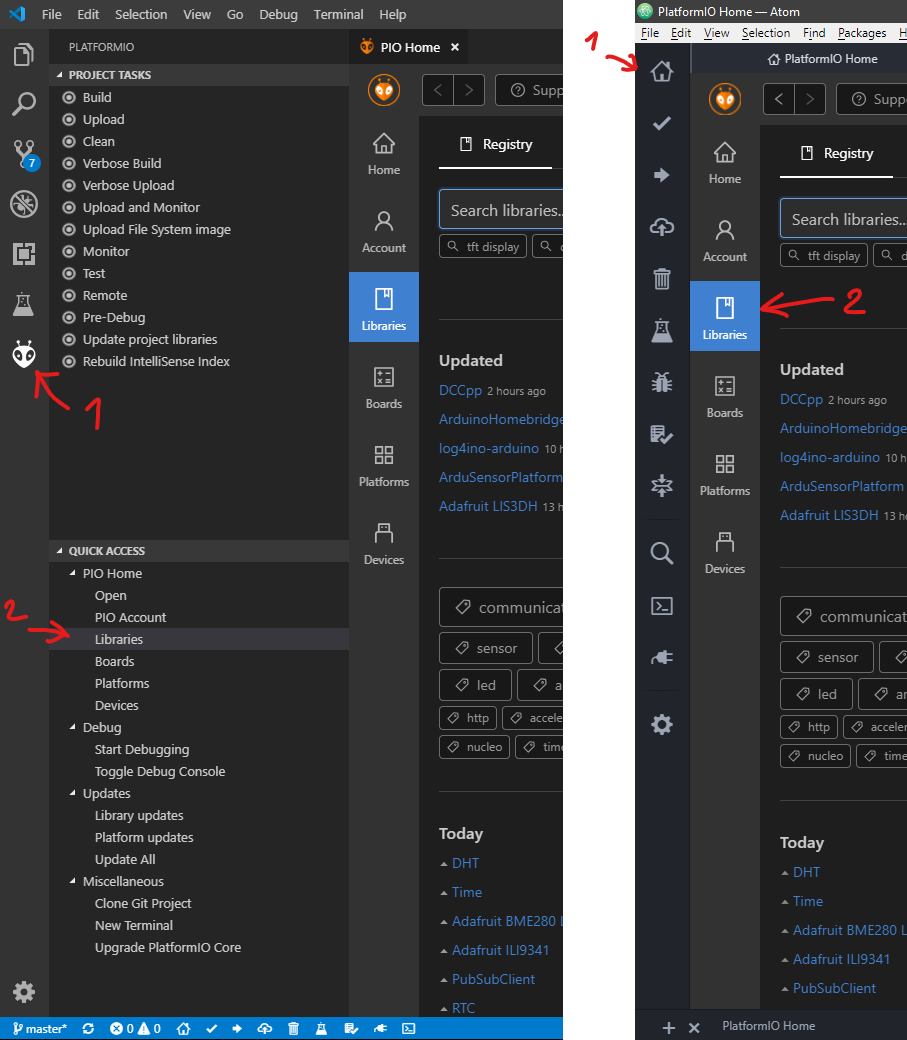
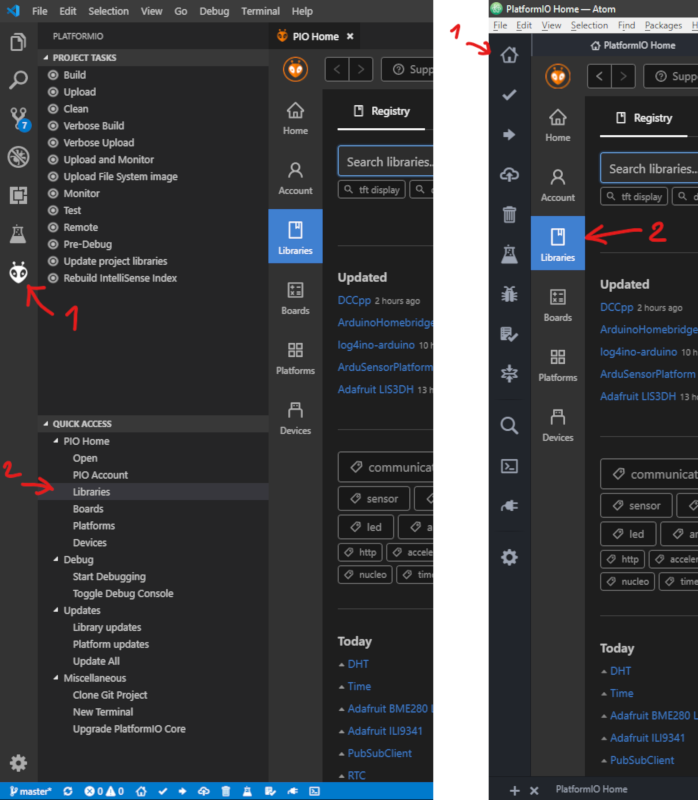
modified ReadMe.md

diff --git a/README.md b/README.md
@@ -4,24 +4,32 @@
 Is a standalone Branch of the **[FHNW Maker Clock - Arduino Software](https://github.com/FHNW-MakerStudio/MakerClockSoftware)**.
 The main difference is that it uses 2 Boards to drive the Clock and give it more capabilities.
 
-Boards used in this project:
+#### Boards used in this project:
 * Arduino Nano with Uno Bootloader (Atmega Bootloaders for Nano will work too)
 * Adafruit Espressif ESP32
 
-Dependencies:
+#### Dependencies:
 - Libraries:
-  - RTCLib
-  - Adafruit NeoPixel
-  - Encoder
-  - OneButton
+  - `RTCLib` by Adafruit
+  - `Adafruit NeoPixel` by Adafruit
+  - `Encoder` by Paul Stoffregen
+  - `OneButton` by Matthias Hertel
 
 ## Contents
 - [Installation](#installation)
-  - [Arduino IDE](#arduino-ide)
-  - [PlatformIO](#platformio)
+  - [Arduino IDE](#11-arduino-ide)
+  - [PlatformIO](#12-platformio)
+- [Test your IDE Installation](#test-your-ide-installation)
+  - [Arduino](#arduino)
+  - [PatformIO](#platformio)
+- [Connecting to your Board](#connecting-to-your-board)
+- [Troubleshooting](#troubleshooting)
+- [Authors](#authors)
+- [License](#license)
+- [Acknowledgments](#acknowledgments)
 
 ## Installation:
-### 1.1 Arduino IDE ![Arduino](images/ArduinoCommunityLogo.png)
+### 1.1 Arduino IDE![Arduino](images/ArduinoCommunityLogo.png)
 Please refer to Installation in [FHNW Maker Clock - Arduino Software](https://github.com/FHNW-MakerStudio/MakerClockSoftware#installation) for the regular Arduino IDE.
 > The instructions are in German but have complementary images to it.
 > If you feel that you need to read the instructions, you can simply translate it.
@@ -30,7 +38,7 @@ Please refer to Installation in [FHNW Maker Clock - Arduino Software](https://gi
 
 After installation you must install Adafruit Espressif ESP32 board described here: [Adafruit HUZZAH32 - ESP32 Feather Guide](https://learn.adafruit.com/adafruit-huzzah32-esp32-feather/using-with-arduino-ide)
 After all that you are set for **[testing the IDE](#test-your-ide-installation)**
-### 1.2 PlatformIO ![PlatformIO](images/PlatformIO.png)
+### 1.2 PlatformIO![PlatformIO](images/PlatformIO.png)
 PlatformIO is an open source ecosystem for IoT development and a free Arduino IDE alternative. It supports +600 embedded boards and is Cross-platform IDE.
 For more Information please visit [platformio.org](https://platformio.org)
 
@@ -38,9 +46,9 @@ For more Information please visit [platformio.org](https://platformio.org)
 1. Visit [platformio.org/platformio-ide](https://platformio.org/platformio-ide)
 2. Choose your prefferd Editor: [Atom](https://platformio.org/install/ide?install=atom) or [VSCode](https://platformio.org/install/ide?install=vscode)
 3. Go throw the install steps of the Editor of your choice and install PlatformIO
-4. After PltformIO has been successfully installed on your Editor, go to Libraries tab of it and search and install all dependencies:
-	4. Atom: navigate to home button top on the left panel -> Libraries in the opened tab
-	4. VSCode: navigate to PlatformIO symbol on the left panel -> in quick access just beside left panel Libraries
+4. After PltformIO has been successfully installed on your Editor, go to Libraries tab of it and search and install all [dependencies](#dependencies):
+	1. **Atom**: navigate to `home` button top on the left panel > `Libraries` in the opened tab
+	2. **VSCode**: navigate to `PlatformIO symbol` on the left panel > in quick access just beside left panel `Libraries`
 
 ![VSCode_Atom](images/VSCode_Atom_Lib.png)
 5. You are all set for **[testing the IDE](#test-your-ide-installation)**
@@ -49,18 +57,59 @@ For more Information please visit [platformio.org](https://platformio.org)
 #### Arduino:
 1. Open the Arduino file [ArduinoMakerClock60.ino](MakerClock_Arduino/ArduinoMakerClock60.ino) in the folder [MakerClock_Arduino](MakerClock_Arduino/)
 2. Set your target board (either Nano or Uno) and processor
+
 ![arduino_settings](images/arduino_settings.png)
-3. Click the verify button top left ![Button Verify](images/arduino_verify.png)
+3. Click the verify button top left 
+
+![Button Verify](images/arduino_verify.png)
 4. The terminal at the bottom should indicate that it compiled the code successfully after a few seconds.
 5. You are ready to get started!
 #### PatformIO:
 1. On the home screen click `Open Project`
+
+![PatformIO_home](images/PatformIO_home)
 2. Navigate to the folder where you have cloned or downloaded and unpacked this project and select the folder `MakerClock_Nano`.
-3. In the IDEs explorer open `main.cc` under the `src` folder.
+3. In the IDEs explorer open `main.cpp` under the `src` folder.
 4. Build the project:
 
 VSCode | Atom
----------- | -------
-[VSCode_build](images/VSCode_build.png) | [Atom_build](images/Atom_build.png)
+------ | -------
+[VSCode build](images/VSCode_build.png) | [Atom build](images/Atom_build.png)
 5. The terminal at the bottom should indicate that it compiled the code successfully after a few seconds.
 6. You are ready to get started!
+
+## Connecting to your Board
+For the Arduino please refer to the section [Programming](https://github.com/FHNW-MakerStudio/MakerClockSoftware#3-programmierung) of MakerStudio/MakerClockSoftware.
+
+PlatformIO automatically detects your board and sets the correct COM Ports when you press upload.
+
+**Note there are different types of build, clean and upload!**
+
+VSCode:
+
+![VSCode_Multi](images/VSCode_Multi.png)
+
+Atom:
+
+![Atom_Target_options](images/Atom_Target_options.png)
+![Atom_Target_build](images/Atom_Target_build.png)
+
+## Troubleshooting
+This is a list of most common mistakes that could happen while preparing your IDE.
+
+Problem | Possible solution
+------- | -----------------
+The code doesn't compile/has errors | Check the error, most of the times it is because a [dependency](#dependencies) is missing like a library. After installing the missing component it is recommended to restart the IDE that it can load all
+Wrong COM port selected | check your comport setting in the Arduino IDE under tools
+Missing drivers | Open Device Manager and update drivers
+Wrong Arduino selected | Depending on which Bootloader your board is running on, choose the right one. Arduino Nano has 3 different ones, just try one after each other
+USB problem on Mac OS X | sometimes a USB hub between the Mac and Arduino can help
+
+## Authors
+* **YD95** - _Initial Branch creator_ - [Devlobsters](https://github.com/devlobsters)
+
+## License
+This project is licensed under the MIT License - see the [LICENSE.md](LICENSE.md) file for details
+
+## Acknowledgments
+* Thanks to Simon Burkhardt ([mnemocron](https://github.com/mnemocron)) from [FHNW MakerStudio](https://github.com/fhnw-makerstudio) for letting me reffer to their Github site
